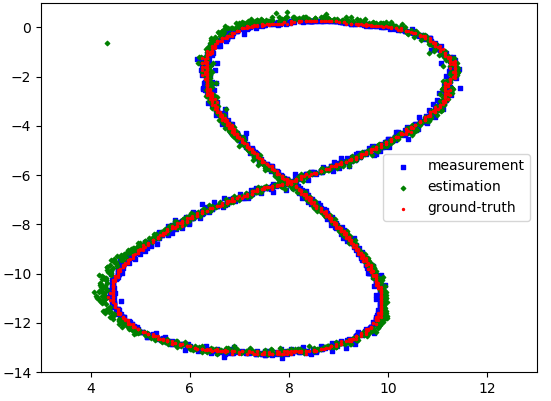
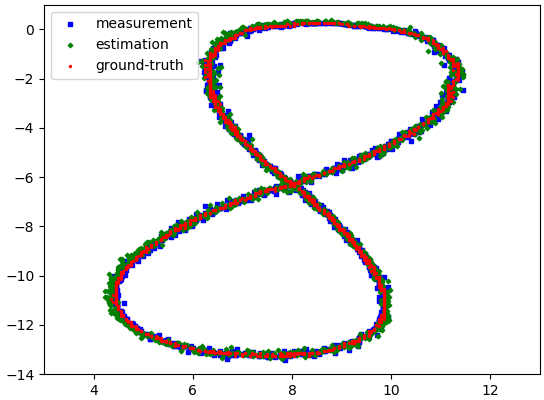
Tune the uncertainty matrices of EKF.

Changed region(s): [[0.0, 0.0, 1.0, 0.99], [0.7812, 0.48, 0.9375, 0.54], [0.7188, 0.45, 0.75, 0.48]]

diff --git a/src/main.cpp b/src/main.cpp
@@ -12,15 +12,22 @@ int main()
   std::string file{"../data/3.txt"};
   read(file, measurement, gt);
 
+  // Initialize uncertainty matrices
+  int Sx = 4;
+  MatrixXd Q_in = MatrixXd::Identity(Sx, Sx) * 15;  // laser and radar share the same process, thus same process uncertainty
+  MatrixXd R_in_laser = MatrixXd::Identity(2, 2) * 0.01;
+  MatrixXd R_in_radar = MatrixXd::Identity(3, 3) * 0.05;
+
   // Initialize extended kalman filters
-  //auto pLKF = KFFactory::manufacture_ekf(std::make_unique<LaserModel>());
-  //auto pRKF = KFFactory::manufacture_ekf(std::make_unique<RadarModel>());
+  auto pLKF = KFFactory::manufacture_ekf(std::make_unique<LaserModel>(), Q_in, R_in_laser);
+  auto pRKF = KFFactory::manufacture_ekf(std::make_unique<RadarModel>(), Q_in, R_in_radar);
 
   // Initialize unscented kalman filters
-  auto pLKF = KFFactory::manufacture_ukf(std::make_unique<LaserModel>());
-  auto pRKF = KFFactory::manufacture_ukf(std::make_unique<RadarModel>());
+  //auto pLKF = KFFactory::manufacture_ukf(std::make_unique<LaserModel>());
+  //auto pRKF = KFFactory::manufacture_ukf(std::make_unique<RadarModel>());
 
-  // Init intial state (untuned, just non-zeros)
+  // Init intial state (untuned, just non-zeros), a correct KF should be able to
+  // correct itself and converge to gt values.
   VectorXd X0 = VectorXd::Ones(4);
 
   Fusion fusion(std::move(pLKF), std::move(pRKF), X0);
@@ -56,8 +63,8 @@ int main()
   //plt::xlim(0, 210);
   //plt::ylim(0, 40);
   // for 3.txt
-  //plt::xlim(-30, 25);
-  //plt::ylim(-12, 25);
+  plt::xlim(-30, 25);
+  plt::ylim(-12, 25);
 
   vis_meas(measurement);
   vis_pred(pred_pos);

diff --git a/include/kf/EKF.h b/include/kf/EKF.h
@@ -24,14 +24,17 @@ class EKF : public IKalmanFilter {
 public:
   using MPtr = std::unique_ptr<IModelEKF>;
 
-  explicit EKF(MPtr pModel) : pM{std::move(pModel)} {
+  explicit EKF(MPtr pModel,
+               const MatrixXd& Q_in,
+               const MatrixXd& R_in) : pM{std::move(pModel)}
+  {
     auto Sx = pM->Sx();
-    auto Su = pM->Su();
+    // auto Su = pM->Su();
     auto Sz = pM->Sz();
     X = VectorXd::Zero(Sx);
     P = MatrixXd::Identity(Sx, Sx);
-    Q = MatrixXd::Identity(Sx, Sx);
-    R = MatrixXd::Identity(Sz, Sz);
+    Q = Q_in;
+    R = R_in;
     K = MatrixXd::Zero(Sx, Sz);
     I = MatrixXd::Identity(Sx, Sx);
   };

diff --git a/include/fusion.h b/include/fusion.h
@@ -42,12 +42,12 @@ public:
         LaserKF->update(z, u, dt);
         X = LaserKF->predict(u, dt);
         P = LaserKF->P;
-      } else {/*
+      } else {
         RadarKF->X = X;
         RadarKF->P = P;
         RadarKF->update(z, u, dt);
         X = RadarKF->predict(u, dt);
-        P = RadarKF->P;*/
+        P = RadarKF->P;
       }
       positions.emplace_back(X[0], X[2]);
     }
@@ -59,7 +59,5 @@ private:
   VectorXd X;  // Current State
   MatrixXd P;  // Covariance Matrix
 };
-
-//TODO If UKF call predict before update() -> maybe if sigma not init, pass through.
 
 #endif //KALMAN_FILTERS_CPP_FUSION_H

diff --git a/include/kf/KFFactory.h b/include/kf/KFFactory.h
@@ -9,8 +9,10 @@ class KFFactory {
 public:
   using KFPtr = std::unique_ptr<IKalmanFilter>;
 
-  static KFPtr manufacture_ekf(std::unique_ptr<IModelEKF> pM) {
-    return std::make_unique<EKF>(std::move(pM));
+  static KFPtr manufacture_ekf(std::unique_ptr<IModelEKF> pM,
+                               const MatrixXd& Q_in,
+                               const MatrixXd& R_in) {
+    return std::make_unique<EKF>(std::move(pM), Q_in, R_in);
   }
 
   static KFPtr manufacture_ukf(std::unique_ptr<IModel> pM) {

diff --git a/src/sigma_points.cpp b/src/sigma_points.cpp
@@ -30,7 +30,7 @@ MatrixXd compute_sigma_points(const VectorXd& muy, MatrixXd cov)
       throw(std::logic_error("Error: Either the calculation of square-root of "
                             "covariance matrix 'cov' is wrong or the given "
                             "'cov' has a problem. In the second case, check"
-                            "your UKF equations or UKF model pointer member."))
+                            "your UKF equations or UKF model pointer member."));
     }
     cov = sqrt;
   }

diff --git a/include/model/linear.h b/include/model/linear.h
@@ -32,6 +32,7 @@ protected:
 
 class LaserModel : public ILinearModel {
 public:
+  /** This model assumes state X = [x, vx, y, vy] */
   explicit LaserModel() {
     F = MatrixXd::Identity(4, 4);
     G = MatrixXd::Zero(4, 1);

diff --git a/src/model/nonlinear.cpp b/src/model/nonlinear.cpp
@@ -1,6 +1,7 @@
 #include "model/nonlinear.h"
 
-VectorXd RadarModel::h(const VectorXd &X) const {
+VectorXd RadarModel::h(const VectorXd &X) const
+{
   double x  = X[0];
   double vx = X[1];
   double y  = X[2];
